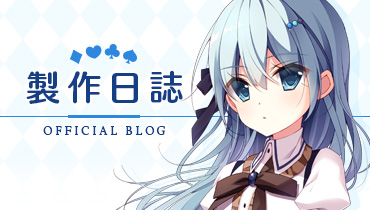
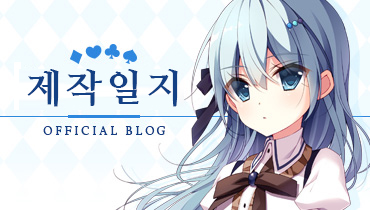
update translation for ginka

Changed region(s): [[0.0595, 0.3143, 0.5054, 0.5143]]

diff --git a/kagura/ginka/character.html b/kagura/ginka/character.html
@@ -45,18 +45,18 @@
     <h2 class="pageTitle">CHARACTER<span>캐릭터</span></h2>
     <div class="charaBtnArea">
       <ul>
-        <li><a href="character.html"><img src="character/images/chara_btn_01sayo_off.jpg" width="76" height="95" alt="煤ヶ谷小夜" class="shadow"/></a></li>
-        <li><a href="character02kukuri.html"><img src="character/images/chara_btn_02kukuri_off.jpg" width="76" height="95" alt="汐入玖々里" class="shadow"/></a></li>
-        <li><a href="character03yuura.html"><img src="character/images/chara_btn_03yuura_off.jpg" width="76" height="95" alt="茅ヶ崎夕桜" class="shadow"/></a></li>
-        <li><a href="character04yurugi.html"><img src="character/images/chara_btn_04yurugi_off.jpg" width="76" height="95" alt="小不動ゆるぎ" class="shadow"/></a></li>
-        <li><a href="character05kureha.html"><img src="character/images/chara_btn_05kureha_off.jpg" width="76" height="95" alt="八椚紅葉" class="shadow"/></a></li>
-        <li><a href="character06akari.html"><img src="character/images/chara_btn_06akari_off.jpg" width="76" height="95" alt="神峯灯" class="shadow"/></a></li>
-        <li><a href="character07yukariko.html"><img src="character/images/chara_btn_07yukariko_off.jpg" width="76" height="95" alt="進藤和奏" class="shadow"/></a></li>
-        <li><a href="character08wakana.html"><img src="character/images/chara_btn_08wakana_off.jpg" width="76" height="95" alt="井土ヶ谷祈吏" class="shadow"/></a></li>
-        <li><a href="character09inori.html"><img src="character/images/chara_btn_09inori_off.jpg" width="76" height="95" alt="久末紫子" class="shadow"/></a></li>
-        <li><a href="character10shino.html"><img src="character/images/chara_btn_10shino_off.jpg" width="76" height="95" alt="久末紫乃" class="shadow"/></a></li>
-        <li><a href="character11itsumi.html"><img src="character/images/chara_btn_11itsumi_off.jpg" width="76" height="95" alt="安針塚いつみ" class="shadow"/></a></li>
-        <li><a href="character12masashi.html"><img src="character/images/chara_btn_12masashi_off.jpg" width="76" height="95" alt="井土ヶ谷祈吏" class="shadow"/></a></li>
+        <li><a href="character.html"><img src="character/images/chara_btn_01sayo_off.jpg" width="76" height="95" alt="스즈가야 사요(煤ヶ谷 小夜)" class="shadow"/></a></li>
+        <li><a href="character02kukuri.html"><img src="character/images/chara_btn_02kukuri_off.jpg" width="76" height="95" alt="시오이리 쿠쿠리(汐入 玖々里)" class="shadow"/></a></li>
+        <li><a href="character03yuura.html"><img src="character/images/chara_btn_03yuura_off.jpg" width="76" height="95" alt="치가사키 유우라(茅ヶ崎 夕桜)" class="shadow"/></a></li>
+        <li><a href="character04yurugi.html"><img src="character/images/chara_btn_04yurugi_off.jpg" width="76" height="95" alt="코유루기 유루기(小不動 ゆるぎ)" class="shadow"/></a></li>
+        <li><a href="character05kureha.html"><img src="character/images/chara_btn_05kureha_off.jpg" width="76" height="95" alt="야츠쿠누기 쿠레하(八椚 紅葉)" class="shadow"/></a></li>
+        <li><a href="character06akari.html"><img src="character/images/chara_btn_06akari_off.jpg" width="76" height="95" alt="코우노미니에 아카리(神峯灯)" class="shadow"/></a></li>
+        <li><a href="character07yukariko.html"><img src="character/images/chara_btn_07yukariko_off.jpg" width="76" height="95" alt="쿠마츠 유카리코(進藤和奏)" class="shadow"/></a></li>
+        <li><a href="character08wakana.html"><img src="character/images/chara_btn_08wakana_off.jpg" width="76" height="95" alt="신도우 와카나井土ヶ谷祈吏" class="shadow"/></a></li>
+        <li><a href="character09inori.html"><img src="character/images/chara_btn_09inori_off.jpg" width="76" height="95" alt="이도가야 이노리(久末紫子)" class="shadow"/></a></li>
+        <li><a href="character10shino.html"><img src="character/images/chara_btn_10shino_off.jpg" width="76" height="95" alt="쿠마츠 시노(久末紫乃)" class="shadow"/></a></li>
+        <li><a href="character11itsumi.html"><img src="character/images/chara_btn_11itsumi_off.jpg" width="76" height="95" alt="안진즈카 이츠미(安針塚 いつみ)" class="shadow"/></a></li>
+        <li><a href="character12masashi.html"><img src="character/images/chara_btn_12masashi_off.jpg" width="76" height="95" alt="치가사키 마사시井土ヶ谷祈吏" class="shadow"/></a></li>
       </ul>
     </div>
     <!-- InstanceBeginEditable name="character" -->
@@ -65,18 +65,18 @@
         <div class="name"><img src="character/01sayo/name.png" width="500" height="95" alt="煤ヶ谷小夜"/></div>
         <div class="cv"><img src="character/01sayo/cv.png" width="500" height="60" alt="coming soon"/></div>
         <div class="prof">
-          <p>包容力溢れるおしとやかな少女。<br>
-            近すぎず遠すぎない距離感を取ることを得意としており、<br>
-            他人に興味のない彼女は友達が少ない。 </p>
+          <p>포용력이 흘러넘치는 참 참한 소녀.<br>
+            너무 가깝지도 너무 멀지도 않은 거리감을 취하는 것을 자랑으로 여기고있어,<br>
+            타인에게 흥미가 없는 그녀는 친구가 적다. </p>
           <p> 주인공과는 동갑내기 소꿉친구이지만,<br>
             과거에 함께 살고 있었을 적에는 의여동생으로서 같이 시간을 보내왔다.<br>
-            彼が家を離れてからも兄として慕ってはいるものの、<br>
-            兄妹ではなく幼馴染としての関係を強いられ、俯く毎日である。<br>
+            그가 집을 떠나고나서도 오빠로서 그리워하고는 있지만,<br>
+            남매가 아닌 소꿉친구로서의 관계를 강요받아, 숙이는 매일이다.<br>
           </p>
-          <p> 父親から引き継がれた無催促・無利子の借金を抱えているため、<br>
-            夜はアメマドイのカジノ施設でディーラーのアルバイトをこなしている。<br>
+          <p> 부친으로부터 물려받은 무독촉ㆍ무이자의 빚을 안고 있기 때문에,<br>
+            밤엔 아메마도이 카지노 시설에서 딜러 아르바이트를 하고 있다.<br>
           </p>
-          <p> 主人公の周りに突然現れた、汐入玖々里に並々ならぬ興味を抱いている。</p>
+          <p> 주인공 주위에 돌연 나타난, 시오이리 쿠쿠리에 남다른 관심을 가지고 있다.</p>
         </div>
       </div>
       <div class="tachieArea">

diff --git a/kagura/ginka/character02kukuri.html b/kagura/ginka/character02kukuri.html
@@ -64,11 +64,11 @@
         <div class="name"><img src="character/02kukuri/name.png" width="500" height="95" alt="汐入玖々里"/></div>
         <div class="cv"><img src="character/02kukuri/cv.png" width="500" height="60" alt="coming soon"/></div>
         <div class="prof">
-          <p>儚い容姿を持つクールな少女。<br>
-          ある日突然、主人公の前に現れて、<br>そのまま無理矢理居候することになってしまう。</p>
-          <p>過去に英才教育を受けていたこともあり、頭の回転がとても速いが、<br>
-           根っからの諦めやすい性格が積極性を失わせてしまっている。</p>
-          <p>学園に通ったことのない彼女は、<br>制服姿の主人公たちに憧れの眼差しを向けていた</p>
+          <p>덧없는 외모를 가진 쿨한 소녀.<br>
+          어느날 돌연, 주인공 앞에 나타나,<br>그대로 무리하게 식객이 되어버린다.</p>
+          <p>과거에 영재교육을 받았던 적도 있어, 머리 회전이 매우 빠르지만, <br>
+           타고난 포기하는게 쉬운 성격이 적극성을 앗아가버렸다.</p>
+          <p>학원에 다닌 적이 없는 그녀는,<br>제복모습의 주인공 일행에게 동경의 시선을 보내고 있다</p>
         </div>
       </div>
       <div class="tachieArea">

diff --git a/kagura/ginka/character09inori.html b/kagura/ginka/character09inori.html
@@ -64,10 +64,10 @@
         <div class="name"><img src="character/09inori/name.png" width="500" height="95" alt="井土ヶ谷祈吏"/></div>
         <div class="cv"><img src="character/09inori/cv.png" width="500" height="60" alt="coming soon"/></div>
         <div class="prof">
-          <p>煤ヶ谷小夜の幼馴染かつ、後輩。<br>
-          小夜に対して幼馴染以上としての感情を覚えているが、<br>本人は全く気がついていない。</p>
-          <p>今では完治したものの、重い病気を患っていたことにより、<br>現在も学園には通っていない。<br>
-          治す手段を教えてくれた主人公と、<br>治してくれた久末先生に心から感謝している。</p>
+          <p>스즈가야 사요(煤ヶ谷小夜)의 소꿉친구이자, 후배.<br>
+          사요(小夜)에 대해서 소꿉친구 이상으로서의 감정을 느끼고 있지만,<br>본인은 전혀 깨닫지 않고있다.</p>
+          <p>지금은 완치했지만, 중병을 앓고 있었던 적이 있어,<br>현재도 학원은 다니지 않는다.<br>
+          치료하는 방법을 가르쳐준 주인공과,<br>치료해준 이도가야(久末)선생님에게 진심으로 감사하고 있다.</p>
         </div>
       </div>
       <div class="tachieArea">

diff --git a/kagura/ginka/character07yukariko.html b/kagura/ginka/character07yukariko.html
@@ -64,11 +64,11 @@
         <div class="name"><img src="character/07yukariko/name.png" width="500" height="95" alt="久末紫子"/></div>
         <div class="cv"><img src="character/07yukariko/cv.png" width="500" height="60" alt="coming soon"/></div>
         <div class="prof">
-          <p>九松病院院長、久末道理の娘。<br>
-            主人公の一つ年上だが、<br>学園には通わず久末が経営するカジノのオーナーを務めている。<br>
+          <p>큐우쇼우(九松)병원 원장, (久末道理)의 딸.<br>
+            주인공보다 한살 연상이지만,<br>학원에는 다니지 않고久末가 경영하는 카지노의 오너를 맡고 있다.<br>
             　<br>
-          かつて、主人公と因縁があったようだが、<br>疎遠になってからは関係が崩れている。</p>
-          <p>常に黒い噂が尽きない彼女は、<br>権力を振りかざして弱者を蹂躙する。</p>
+          일찍이, 주인공과 인연이 있던 것 같지만,<br>소원하게 되고 나서는 관계가 무너지고 있다.</p>
+          <p>항상 검은 소문이 끊이지 않는 그녀는,<br>권력을 내세워 약자를 유린한다.</p>
         </div>
       </div>
       <div class="tachieArea">

diff --git a/kagura/ginka/character08wakana.html b/kagura/ginka/character08wakana.html
@@ -64,10 +64,10 @@
         <div class="name"><img src="character/08wakana/name.png" width="500" height="95" alt="進藤和奏"/></div>
         <div class="cv"><img src="character/08wakana/cv.png" width="500" height="60" alt="coming soon"/></div>
         <div class="prof">
-          <p>主人公のクラスメイト。<br>
-          やや人見知りをする性格のため、<br>身内とばかり会話をする傾向にある。</p>
-          <p>良くない噂の多い主人公とは疎遠だが、<br>ある事件をきっかけに交流を深めていくことになる。</p>
-          <p>将来、花火師の職に付くことを志しており、<br>花火部を作ろうとしているようだが……。　</p>
+          <p>주인공의 클래스메이트.<br>
+          약간 낯가림 하는 성격 때문에,<br>집안에서만 이야기하는 경향이 있다.</p>
+          <p>좋지 않은 소문이 많은 주인공과는 소원하지만,<br>어느 사건을 계기로 교류가 깊어져 가게된다.</p>
+          <p>장래, 불꽃사의 일자리에 뜻을 두고 있으며,<br>불꽃부를 만드려고 하고 있는 것같지만.......　</p>
         </div>
       </div>
       <div class="tachieArea">

diff --git a/kagura/ginka/character11itsumi.html b/kagura/ginka/character11itsumi.html
@@ -64,9 +64,9 @@
         <div class="name"><img src="character/11itsumi/name.png" width="500" height="95" alt="安針塚いつみ"/></div>
         <div class="cv"><img src="character/11itsumi/cv.png" width="500" height="60" alt="coming soon"/></div>
         <div class="prof">
-          <p>主人公たちが通う河水冠学園の化学教師。<br>
-          基本的に教育に対してやる気はなく、あくまで適当にこなすだけ。</p>
-          <p>人気を避ける主人公と顔を合わせることが多く、<br>サボり仲間になってしまっている。</p>
+          <p>주인공 일행이 다니는 河水冠학원의 화학교사<br>
+          기본적으로 교육에 대해서 의지는 없고, 어디까지나 적당하게 해낼 뿐.</p>
+          <p>인기(人気)를 피하는 주인공과 얼굴을 마주치는 일이 많아,<br>땡땡이 동료가 되어버렸다.</p>
         </div>
       </div>
       <div class="tachieArea">

diff --git a/kagura/ginka/character06akari.html b/kagura/ginka/character06akari.html
@@ -64,8 +64,8 @@
         <div class="name"><img src="character/06akari/name.png" width="500" height="95" alt="神峯灯"/></div>
         <div class="cv"><img src="character/06akari/cv.png" width="500" height="60" alt="coming soon"/></div>
         <div class="prof">
-          <p>八椚紅葉に従うメイドさん……ではなく秘書。</p>
-          <p>柔和な笑顔と物腰が特徴的。<br>
+          <p>(八椚紅葉)에 따르는 메이드……는 아니고 비서.</p>
+          <p>온화한 웃는 얼굴과 언행이 특징적.<br>
             かつてヒーローを志していた彼女は、<br>正義の味方を自称しながら悪をなぎ倒す毎日だったらしいが、<br>
           今ではかつての輝きを失わせ、紅葉の従者に甘んじている。</p>
           <p>清濁併せ呑んだ紅葉の生き方に、<br>様々な感情を抱きながらも、彼女は秘書として暗躍するのだ。</p>

diff --git a/kagura/ginka/character12masashi.html b/kagura/ginka/character12masashi.html
@@ -64,8 +64,8 @@
         <div class="name"><img src="character/12masashi/name.png" width="500" height="95" alt="茅ヶ崎征士"/></div>
         <div class="cv"><img src="character/12masashi/cv.png" width="500" height="60" alt="coming soon"/></div>
         <div class="prof">
-          <p>茅ヶ崎家の父親。<br>
-          現在、指名手配中。</p>
+          <p>치가사키(茅ヶ崎) 가의 부친.<br>
+          현재, 지명수배중.</p>
         </div>
       </div>
       <div class="tachieArea">
